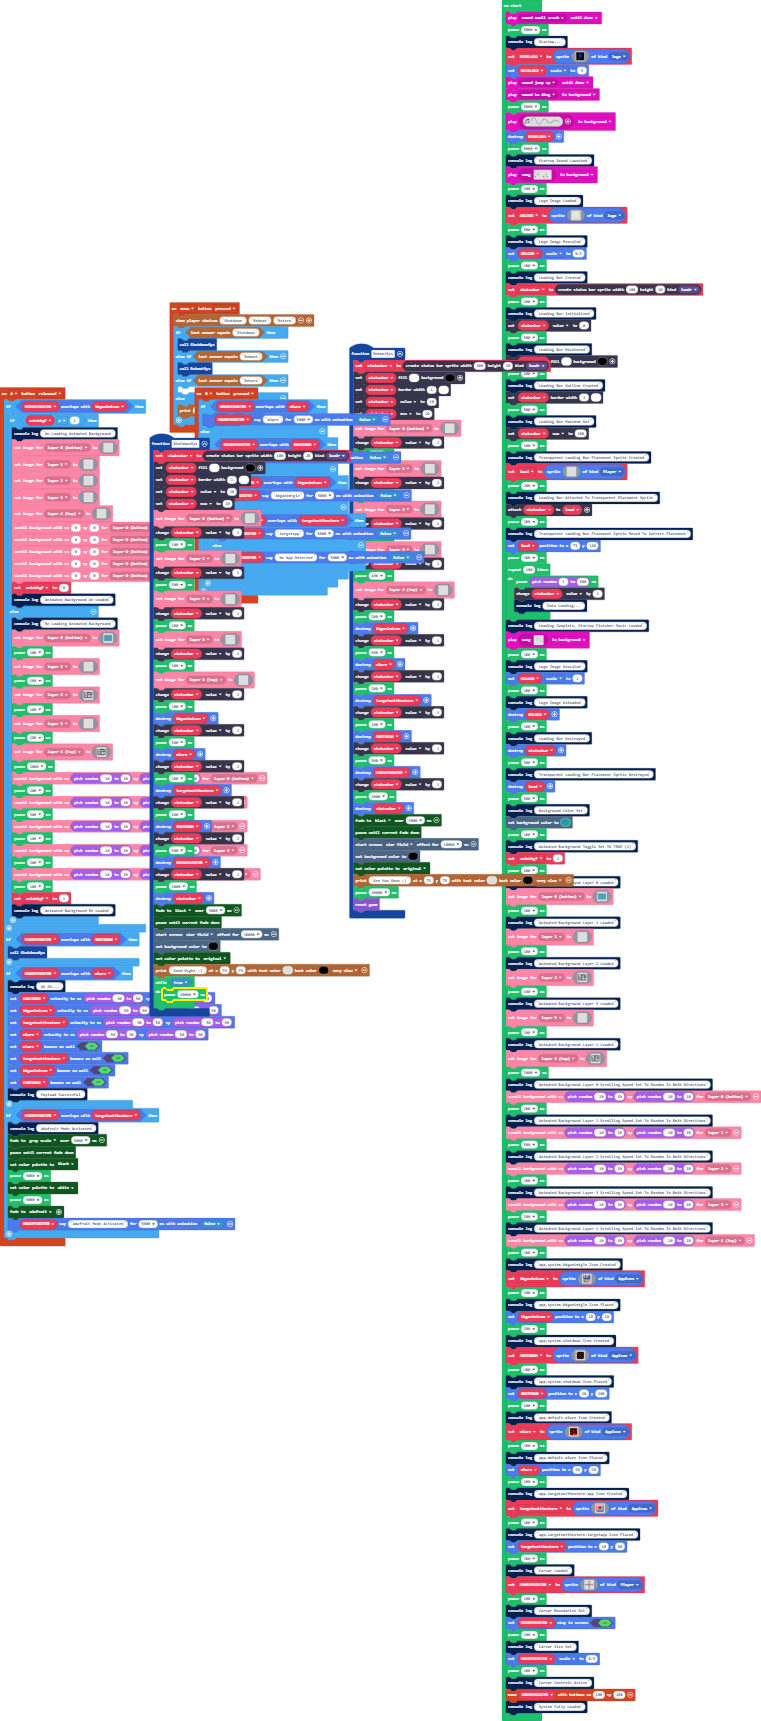
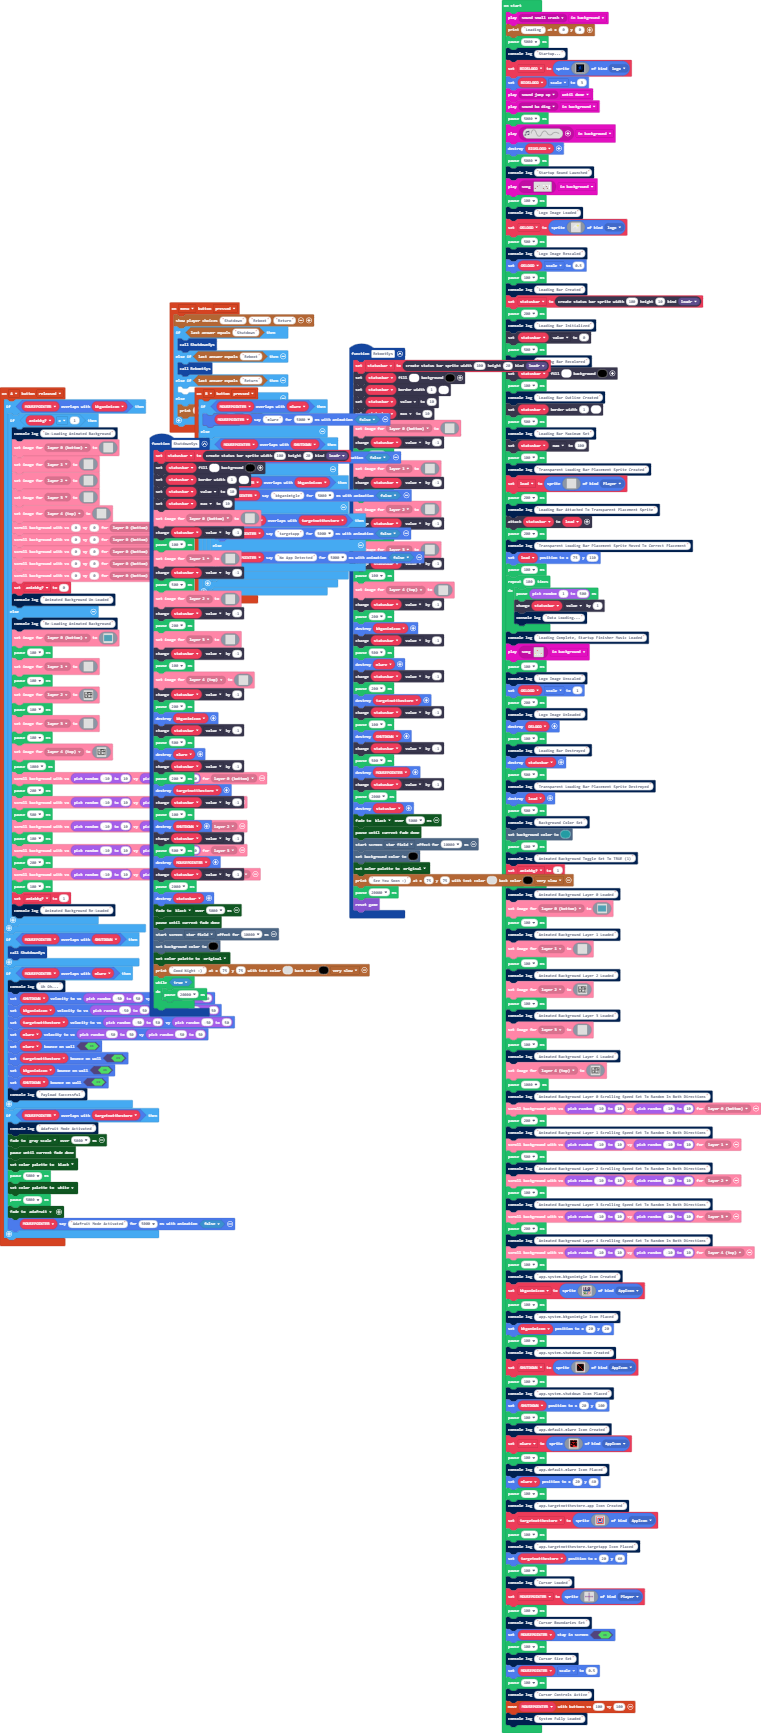
added cool thing

Changed region(s): [[0.0, 0.0, 1.0, 1.0]]

diff --git a/main.ts b/main.ts
@@ -2028,7 +2028,8 @@ let SHUTDOWN: Sprite = null
 let bkganimicon: Sprite = null
 let animbkg = 0
 let statusbar: StatusBarSprite = null
-music.play(music.melodyPlayable(music.smallCrash), music.PlaybackMode.UntilDone)
+music.play(music.melodyPlayable(music.smallCrash), music.PlaybackMode.InBackground)
+story.printText("Loading", 0, 0)
 pause(5000)
 console.log("Startup...")
 let BIOSLOGO = sprites.create(assets.image`BIOS`, SpriteKind.logo)
